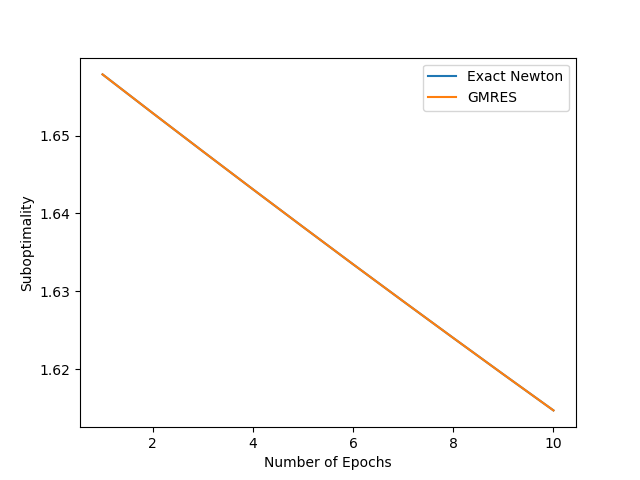
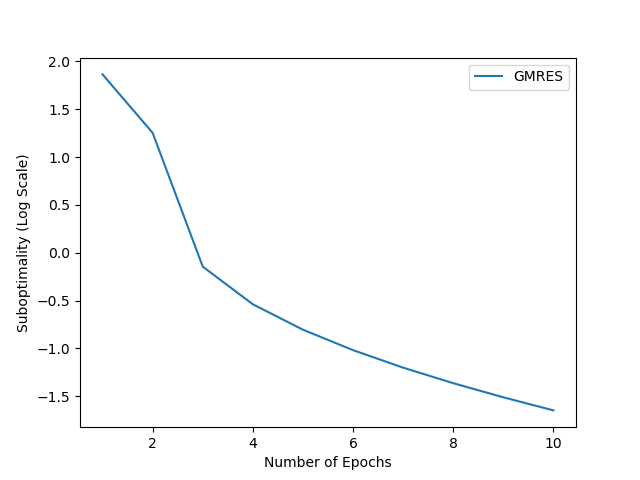
add updated suboptimality plots on log scale

diff --git a/convex_model/a9a_analysis.py b/convex_model/a9a_analysis.py
@@ -304,9 +304,12 @@ class A9A_Analysis:
         gradient_descent_loss = torch.load('model_statistics/gradient_descent_loss.pt')
         final_converged_loss = gradient_descent_loss[-1]
 
-        newton_methods = {'Exact Newton': self.newton_method_exact, 'GMRES': 
-        self.gmres, 'Conjugate Residual': self.conjugate_residual}
+        # newton_methods = {'Exact Newton': self.newton_method_exact, 'GMRES': 
+        # self.gmres, 'Conjugate Residual': self.conjugate_residual}
 
+        #newton_methods = {'Exact Newton': self.newton_method_exact}
+        #newton_methods = {'GMRES': self.gmres}
+        newton_methods = {'Conjugate Residual': self.conjugate_residual}
 
         for newton_method_name, newton_method in newton_methods.items():
             _, loss_vals, _, _ = newton_method(num_epochs)
@@ -316,7 +319,7 @@ class A9A_Analysis:
             
             plt.legend()
             plt.xlabel('Number of Epochs')
-            plt.ylabel('Suboptimality')
+            plt.ylabel('Suboptimality (Log Scale)')
             plt.savefig(f'convex_model_plots/{newton_method_name}_{filename}')
         
         #_, newton_method_loss_vals = newton_method(15)
@@ -341,9 +344,9 @@ if __name__ == "__main__":
     # init_w = torch.rand(a9a.X.shape[0])
     
     #w, _, _, _ = a9a.newton_method_exact(10, init_w)
-    _, gradient_descent_loss_values = a9a.gradient_descent()
+    #_, gradient_descent_loss_values = a9a.gradient_descent()
     # print(gradient_descent_loss_values[-1])#
-    torch.save(torch.tensor(gradient_descent_loss_values), 'model_statistics/gradient_descent_loss.pt')
+    #torch.save(torch.tensor(gradient_descent_loss_values), 'model_statistics/gradient_descent_loss.pt')
 
     # w = torch.randn(124)
     # v = torch.randn(124)
@@ -356,8 +359,8 @@ if __name__ == "__main__":
     
     
     #a9a.plot_losses_or_accuracies_all_newton_methods('loss_vals.png', 10, True)
-    a9a.plot_losses_or_accuracies_all_newton_methods('accuracy_vals.png', 10, False)
-    #a9a.plot_suboptimality_all_newton_methods('suboptimality.png', 10, init_w)
+    #a9a.plot_losses_or_accuracies_all_newton_methods('accuracy_vals.png', 10, False)
+    a9a.plot_suboptimality_all_newton_methods('suboptimality.png', 10)
 
     #_ = a9a.conjugate_residual(10)
     # print(time)
